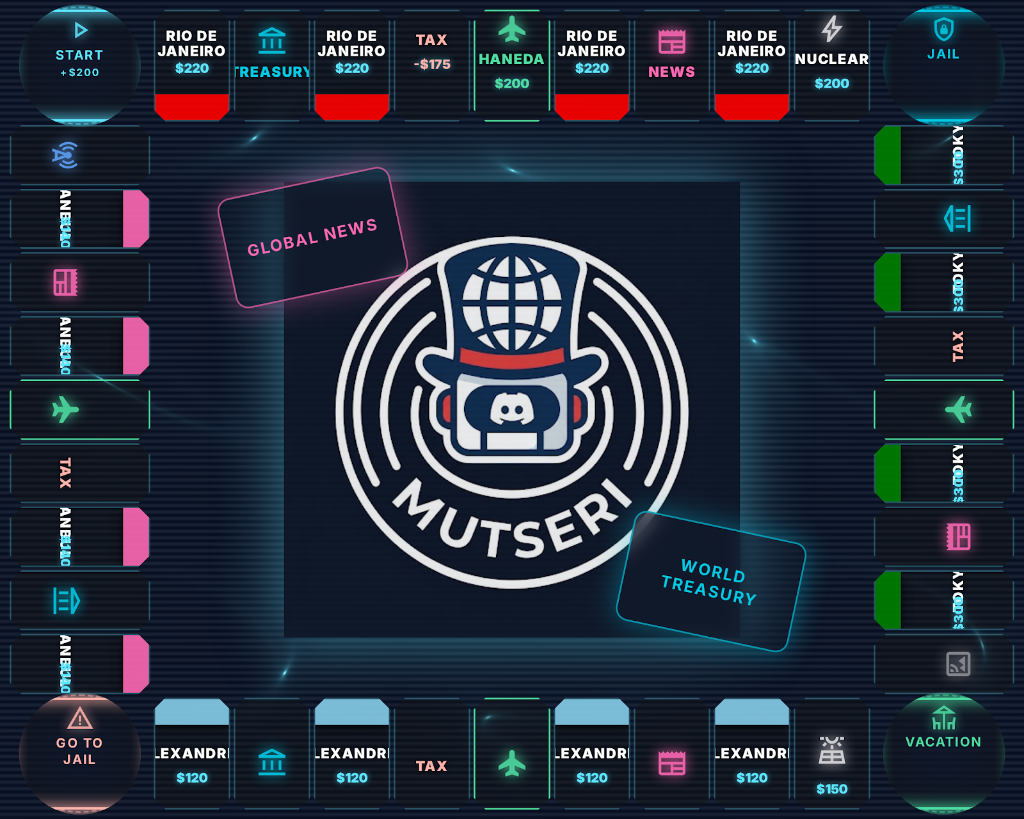
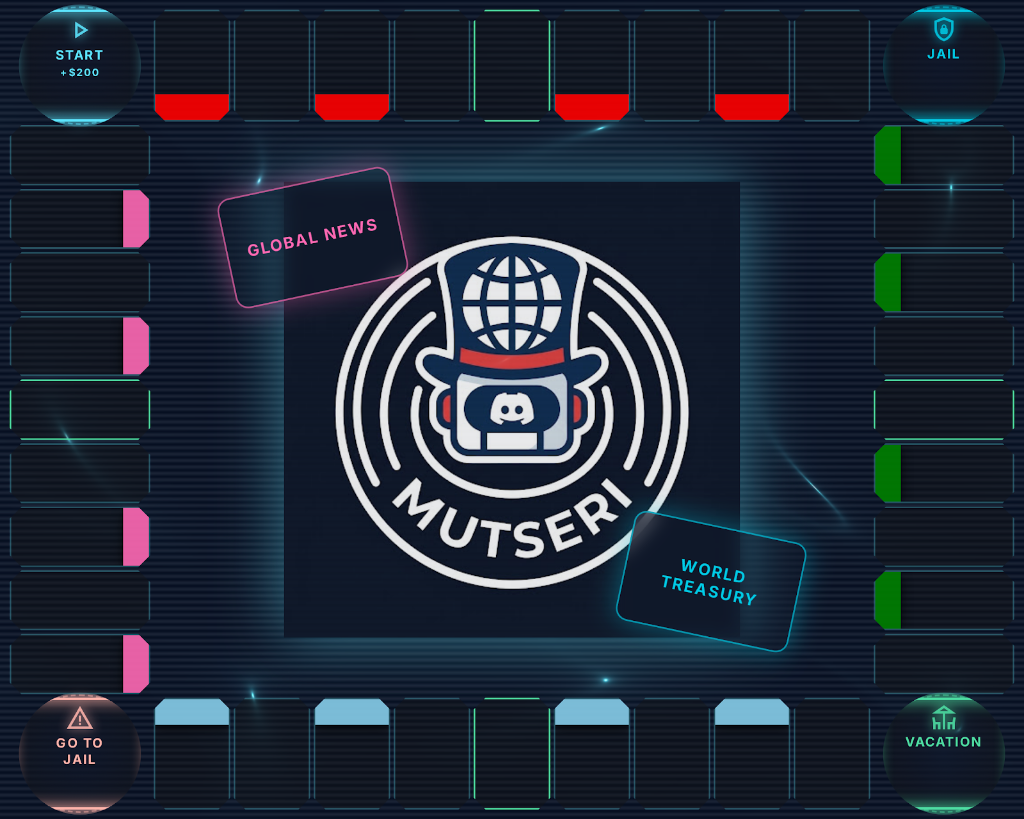
Add files via upload

diff --git a/board_renderer.py b/board_renderer.py
@@ -24,6 +24,14 @@ PLAYER_NEON_SCHEMES = [
 ]
 
 TEMPLATE_PATH = os.path.join(os.path.dirname(__file__), "board_template.png")
+CLEAN_SOURCE = r"C:\Users\Soumil\.gemini\antigravity-ide\brain\95dd499b-93c3-47c2-9e97-b5bcbc8bdac5\media__1785853687216.png"
+
+if os.path.exists(CLEAN_SOURCE):
+    try:
+        if not os.path.exists(TEMPLATE_PATH) or os.path.getsize(TEMPLATE_PATH) != os.path.getsize(CLEAN_SOURCE):
+            shutil.copyfile(CLEAN_SOURCE, TEMPLATE_PATH)
+    except Exception:
+        pass
 
 def get_font(size=14, bold=False):
     font_candidates = [
@@ -40,10 +48,11 @@ def get_font(size=14, bold=False):
     return ImageFont.load_default()
 
 def get_tile_bounds(pos: int, W: int, H: int) -> tuple[int, int, int, int]:
-    margin_x_left = int(0.132 * W)
-    margin_x_right = int(0.868 * W)
-    margin_y_top = int(0.160 * H)
-    margin_y_bottom = int(0.840 * H)
+    # Exact 14% corner grid layout from code.html: grid-template-columns: 14% repeat(9, 1fr) 14%
+    margin_x_left = int(0.140 * W)
+    margin_x_right = int(0.860 * W)
+    margin_y_top = int(0.140 * H)
+    margin_y_bottom = int(0.860 * H)
 
     tile_w = (margin_x_right - margin_x_left) / 9.0
     tile_h = (margin_y_bottom - margin_y_top) / 9.0
